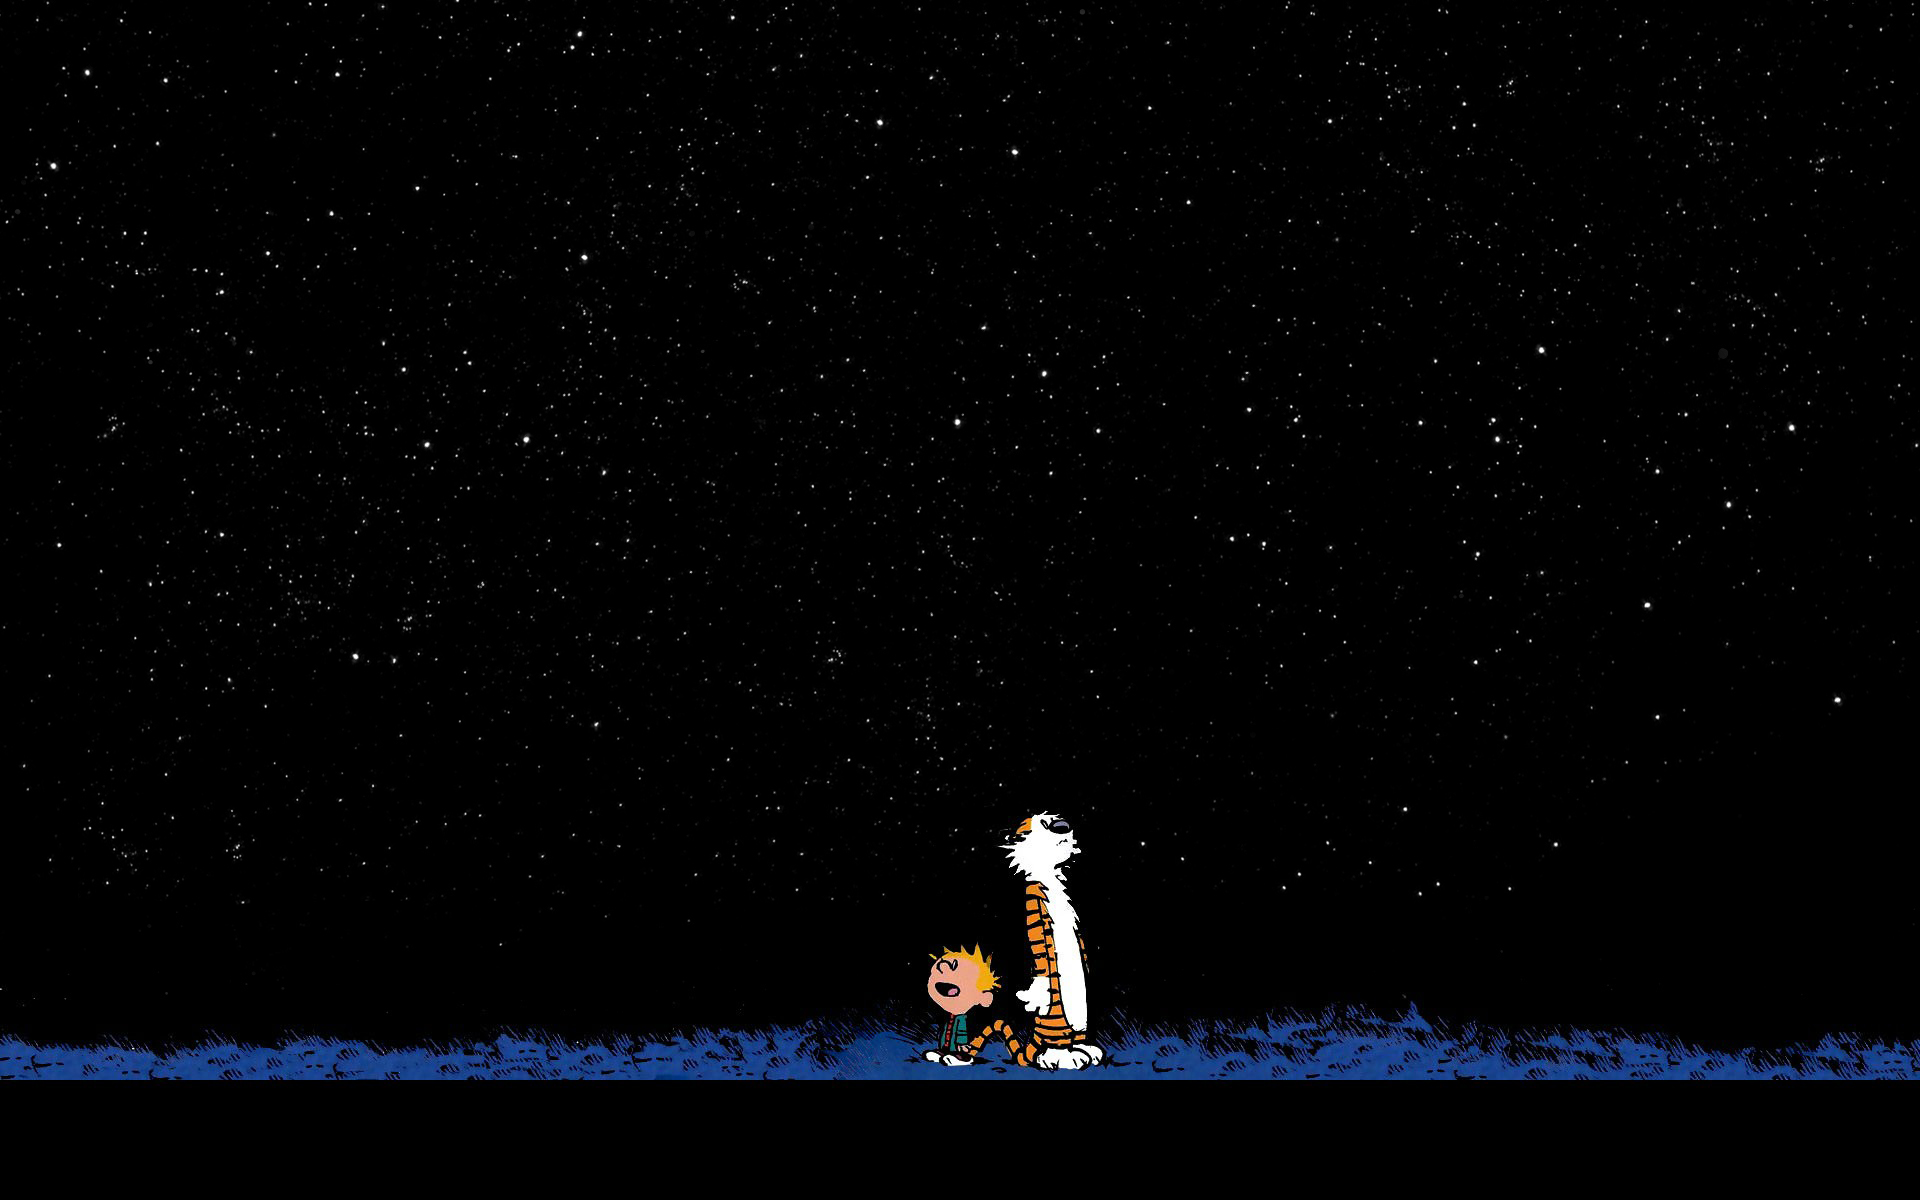
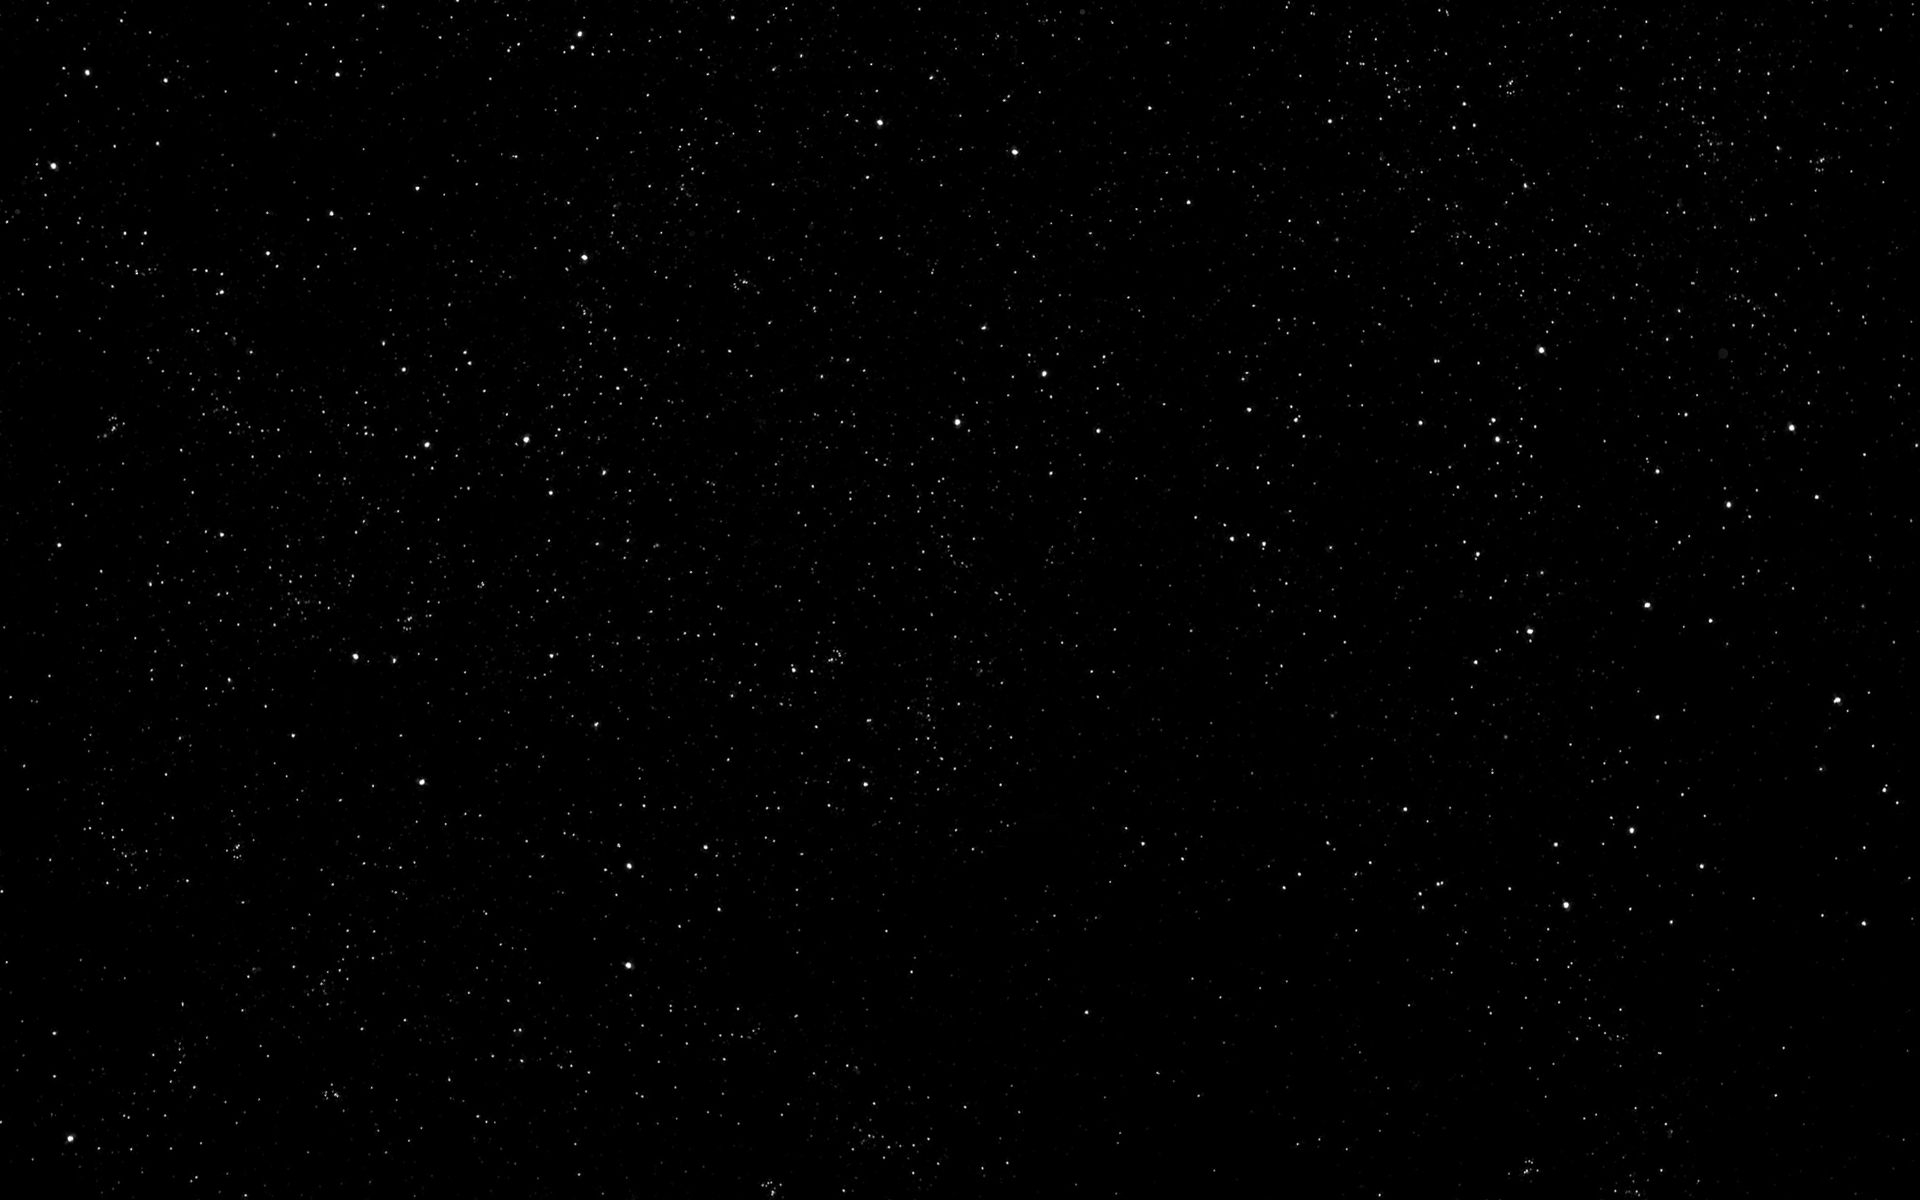
Home Page UI Change

Changed region(s): [[0.0, 0.6783, 1.0, 0.925]]

diff --git a/index.css b/index.css
@@ -269,7 +269,7 @@ a.navbar-button:hover:after {
 
 .contact_section{
   width: 100%;
-  background-color: rgba(32,32,32,0.6);
+  background-color: rgba(32,32,32,0.2);
   text-align: center;
   padding-bottom: 3%;
   padding-left: 10px;
@@ -528,6 +528,9 @@ a:focus{
   .item_details2{
     margin-right: 50px;
   }
+  .twinkling{
+    margin-top: -50px;
+  }
 }
 @media (max-width: 1600px) {
   .intro_container{
@@ -542,10 +545,6 @@ a:focus{
   }
   .item_details2{
     margin-right: 50px;
-  }
-  .clouds{
-    background: url(./images/clouds_laptop.png)!important;
-    background-repeat: repeat-x !important;
   }
   .img-circle {
     width: 25%;
@@ -596,12 +595,18 @@ a:focus{
   .credits{
     display: none !important;
   }
+  .earth{
+    height: 370px !important;
+  }
   .background{
     background-position: 33% 50% !important;
   }
 }
 
 @media (max-width: 674px) {
+  .navbar-collapse{
+   background-color: rgba(32,32,32,0.6);
+   }
   .img-circle {
     width: 50%;
   }
@@ -657,16 +662,13 @@ a:focus{
   .twinkling{
     height: 500px !important;
   }
-  .clouds{
-    background: url(./images/clouds_mini.png)!important;
-    background-repeat: repeat-x !important;
-    top: 50px !important;
+  .earth{
+    height: 300px !important;
   }
   .background{
     background-position: 36% 50% !important;
   }
 }
-
 
 .demo a {
   position: relative;
@@ -763,26 +765,16 @@ a:focus{
   display:block;
 }
 
-.clouds{
+.earth{
+  background: url("./images/Earth_Orbit.png");
   position:absolute;
-  top:0;
+  bottom:0;
   left:0;
   right:0;
   bottom:0;
   width:100%;
-  display:block;
-}
-
-.clouds{
-  background:transparent url(./images/clouds.png) top center;
-  background-repeat: repeat-x;
-  z-index:3;
-
-  -moz-animation:move-clouds-back 500s linear infinite;
-  -ms-animation:move-clouds-back 500s linear infinite;
-  -o-animation:move-clouds-back 500s linear infinite;
-  -webkit-animation:move-clouds-back 500s linear infinite;
-  animation:move-clouds-back 500s linear infinite;
+  height: 300px;
+  z-index: 3;
 }
 
 .twinkling{
@@ -811,23 +803,6 @@ a:focus{
 @-ms-keyframes move-twink-back {
     from {background-position:0 0;}
     to {background-position:-10000px 5000px;}
-}
-
-@keyframes move-clouds-back {
-    from {background-position:0 0;}
-    to {background-position:10000px 0;}
-}
-@-webkit-keyframes move-clouds-back {
-    from {background-position:0 0;}
-    to {background-position:10000px 0;}
-}
-@-moz-keyframes move-clouds-back {
-    from {background-position:0 0;}
-    to {background-position:10000px 0;}
-}
-@-ms-keyframes move-clouds-back {
-    from {background-position: 0;}
-    to {background-position:10000px 0;}
 }
 
 #intro_text_a{

diff --git a/index.html b/index.html
@@ -251,9 +251,9 @@
         <div class="cool-link">
           <p>Let's work together!</p>
           <p> Feel free to connect with me through</p>
-          <p><a id='intro_text_a' style="color: #3b5998" href = "https://www.facebook.com/msn.world.andy" target="_blank">Facebook</a>,
-            <a id='intro_text_a' style="color: #0077B5" href = "https://www.linkedin.com/in/andy-chu-work/" target="_blank">Linkedin</a>
-            , or by <a id='intro_text_a' style="color: #fca10f" href = "mailto:andy.chuatwork@gmail.com">Email</a>.</p>
+          <p><a id='intro_text_a' style="color: #3b5998;" href = "https://www.facebook.com/msn.world.andy" target="_blank"><b>Facebook</b></a>,
+            <a id='intro_text_a' style="color: #0077B5;" href = "https://www.linkedin.com/in/andy-chu-work/" target="_blank"><b>Linkedin</b></a>
+            , or by <a id='intro_text_a' style="color: #fca10f;" href = "mailto:andy.chuatwork@gmail.com"><b>Email</b></a>.</p>
           </p>
         </div>
         </span>
@@ -268,7 +268,7 @@
     </div>
     <div class = "background">
       <div class="twinkling"></div>
-      <!-- <div class="clouds"></div> -->
+      <div class="earth"></div>
       <div class ="credits">
         <h6>Bill Watterson <span style = "font-style: italic;">Calvin and Hobbes</h6>
       </div>
